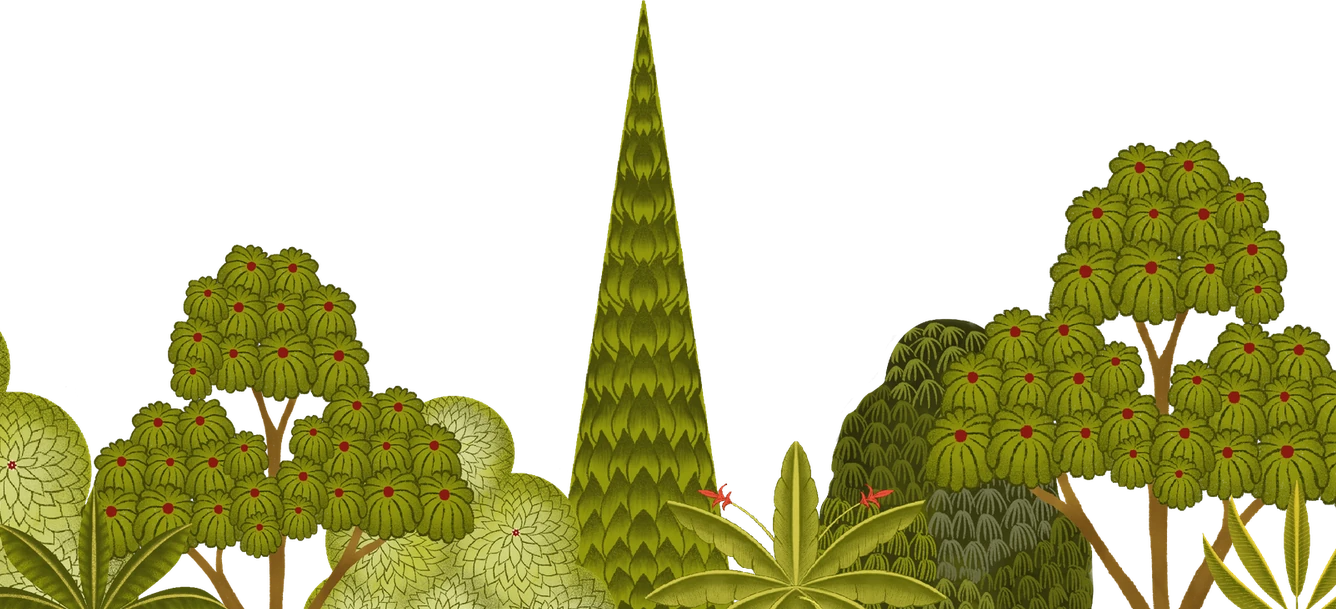
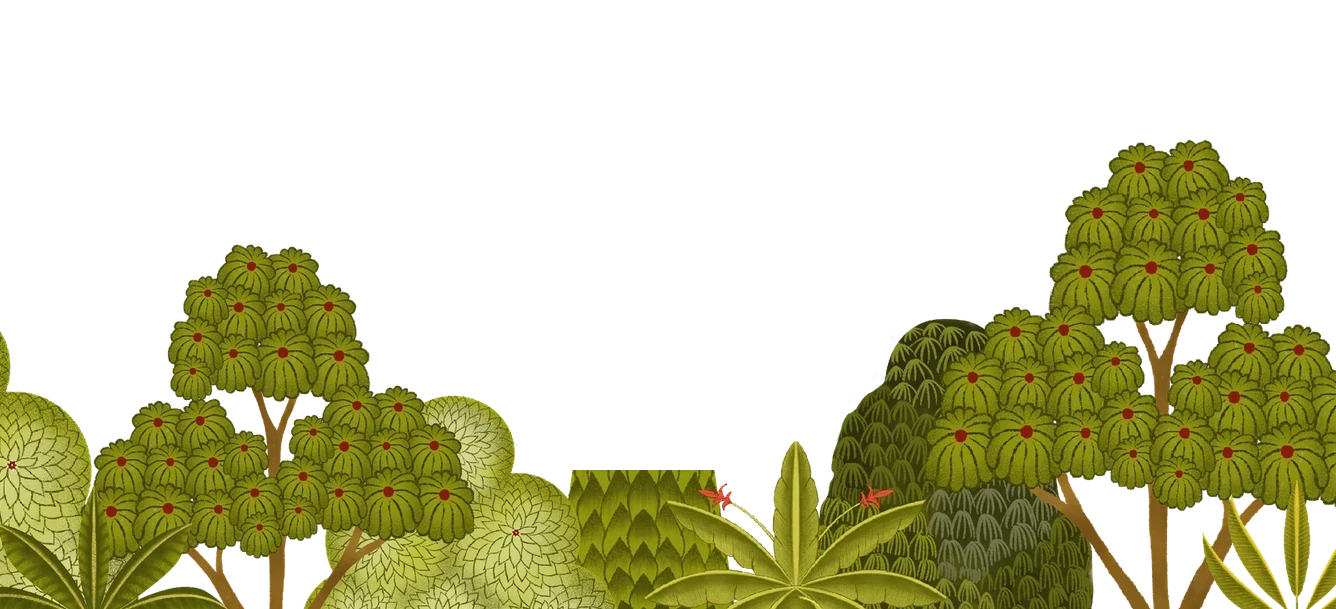
Cover wind: only the banana fan, cone tree, fern and willow sway; the rest barely stir
The tall cone is cut out of the grove as its own layer, hinged just above the plants in front of it.

Changed region(s): [[0.4296, 0.0, 0.5524, 0.78]]

diff --git a/css/style.css b/css/style.css
@@ -46,14 +46,16 @@ section { position: relative; overflow: hidden; }
 @media (min-aspect-ratio: 3/4) { .cover__stage { height: 100%; } }
 .cv { position: absolute; display: block; will-change: transform; backface-visibility: hidden; }
 .cv--sky { animation: sky-drift 24s ease-in-out infinite alternate; transform-origin: 50% 40%; }
-@keyframes sky-drift { from { transform: scale(1); } to { transform: scale(1.035) translateX(-.6%); } }
-/* ground plants lean from their roots, hanging leaves swing from where they hang; the gust travels left to right */
-.cv--cypress { transform-origin: 30% 100%; animation: lean 3s cubic-bezier(.45,.05,.35,1) 0s infinite; --lean: -1.1deg; }
-.cv--banana  { transform-origin: 35% 100%; animation: lean 3s cubic-bezier(.45,.05,.35,1) .12s infinite; --lean: -1.8deg; }
-.cv--lotus   { transform-origin: 50% 100%; animation: lean 3s cubic-bezier(.45,.05,.35,1) .22s infinite; --lean: -3deg; }
-.cv--grove   { transform-origin: 50% 100%; animation: lean 3s cubic-bezier(.45,.05,.35,1) .35s infinite; --lean: -1deg; }
+@keyframes sky-drift { from { transform: scale(1); } to { transform: scale(1.0035) translateX(-.06%); } }
+/* Four plants move in the wind: the banana fan with the parrot, the tall cone, the top fern and the hanging willow.
+   The rest barely stir (a tenth of the movement). The gust travels left to right. */
+.cv--banana  { transform-origin: 35% 100%; animation: lean 3s cubic-bezier(.45,.05,.35,1) .1s infinite;  --lean: -1.8deg; }
+.cv--cone    { transform-origin: 50% 100%; animation: lean 3s cubic-bezier(.45,.05,.35,1) .3s infinite;  --lean: -1.6deg; }
 .cv--fern    { transform-origin: 85% 0;    animation: lean 3s cubic-bezier(.45,.05,.35,1) .5s infinite;  --lean: 2.2deg; }
 .cv--willow  { transform-origin: 70% 0;    animation: lean 3s cubic-bezier(.45,.05,.35,1) .62s infinite; --lean: 2deg; }
+.cv--cypress { transform-origin: 30% 100%; animation: lean 3s cubic-bezier(.45,.05,.35,1) 0s infinite;   --lean: -.11deg; }
+.cv--lotus   { transform-origin: 50% 100%; animation: lean 3s cubic-bezier(.45,.05,.35,1) .22s infinite; --lean: -.3deg; }
+.cv--grove   { transform-origin: 50% 100%; animation: lean 3s cubic-bezier(.45,.05,.35,1) .35s infinite; --lean: -.1deg; }
 @keyframes lean {
   0%   { transform: skewX(0deg); }
   38%  { transform: skewX(var(--lean)); }

diff --git a/index.html b/index.html
@@ -12,7 +12,7 @@
   <link rel="preconnect" href="https://fonts.googleapis.com">
   <link rel="preconnect" href="https://fonts.gstatic.com" crossorigin>
   <link href="https://fonts.googleapis.com/css2?family=Cinzel:wght@400;500&family=Cormorant+Garamond:ital,wght@0,400;0,500;1,400;1,500&family=Tiro+Devanagari+Sanskrit&display=swap" rel="stylesheet">
-  <link rel="stylesheet" href="css/style.css?v=202611190214">
+  <link rel="stylesheet" href="css/style.css?v=202611190218">
 </head>
 <body class="locked">
   <svg width="0" height="0" style="position:absolute" aria-hidden="true">
@@ -67,6 +67,7 @@
           <img class="cv cv--cypress" src="assets/cv-cypress.webp" alt="" style="left:0.0%;top:11.4%;width:38.885%;height:80.352%">
           <img class="cv cv--willow" src="assets/cv-willow.webp" alt="" style="left:75.118%;top:33.144%;width:24.882%;height:53.009%">
           <img class="cv cv--grove" src="assets/cv-grove.webp" alt="" style="left:15.856%;top:72.901%;width:84.144%;height:27.099%">
+          <img class="cv cv--cone" src="assets/cv-cone.webp" alt="" style="left:50.622%;top:72.901%;width:11.652%;height:20.914%">
           <img class="cv cv--banana" src="assets/cv-banana.webp" alt="" style="left:0.0%;top:66.274%;width:56.746%;height:33.726%">
           <img class="cv cv--fern" src="assets/cv-fern.webp" alt="" style="left:40.262%;top:0.0%;width:59.524%;height:25.228%">
           <img class="cv cv--lotus" src="assets/cv-lotus.webp" alt="" style="left:17.134%;top:86.152%;width:28.613%;height:13.848%">
@@ -187,6 +188,6 @@
     <span class="music__label">Play music</span>
   </button>
 
-  <script src="js/main.js?v=202611190214"></script>
+  <script src="js/main.js?v=202611190218"></script>
 </body>
 </html>
